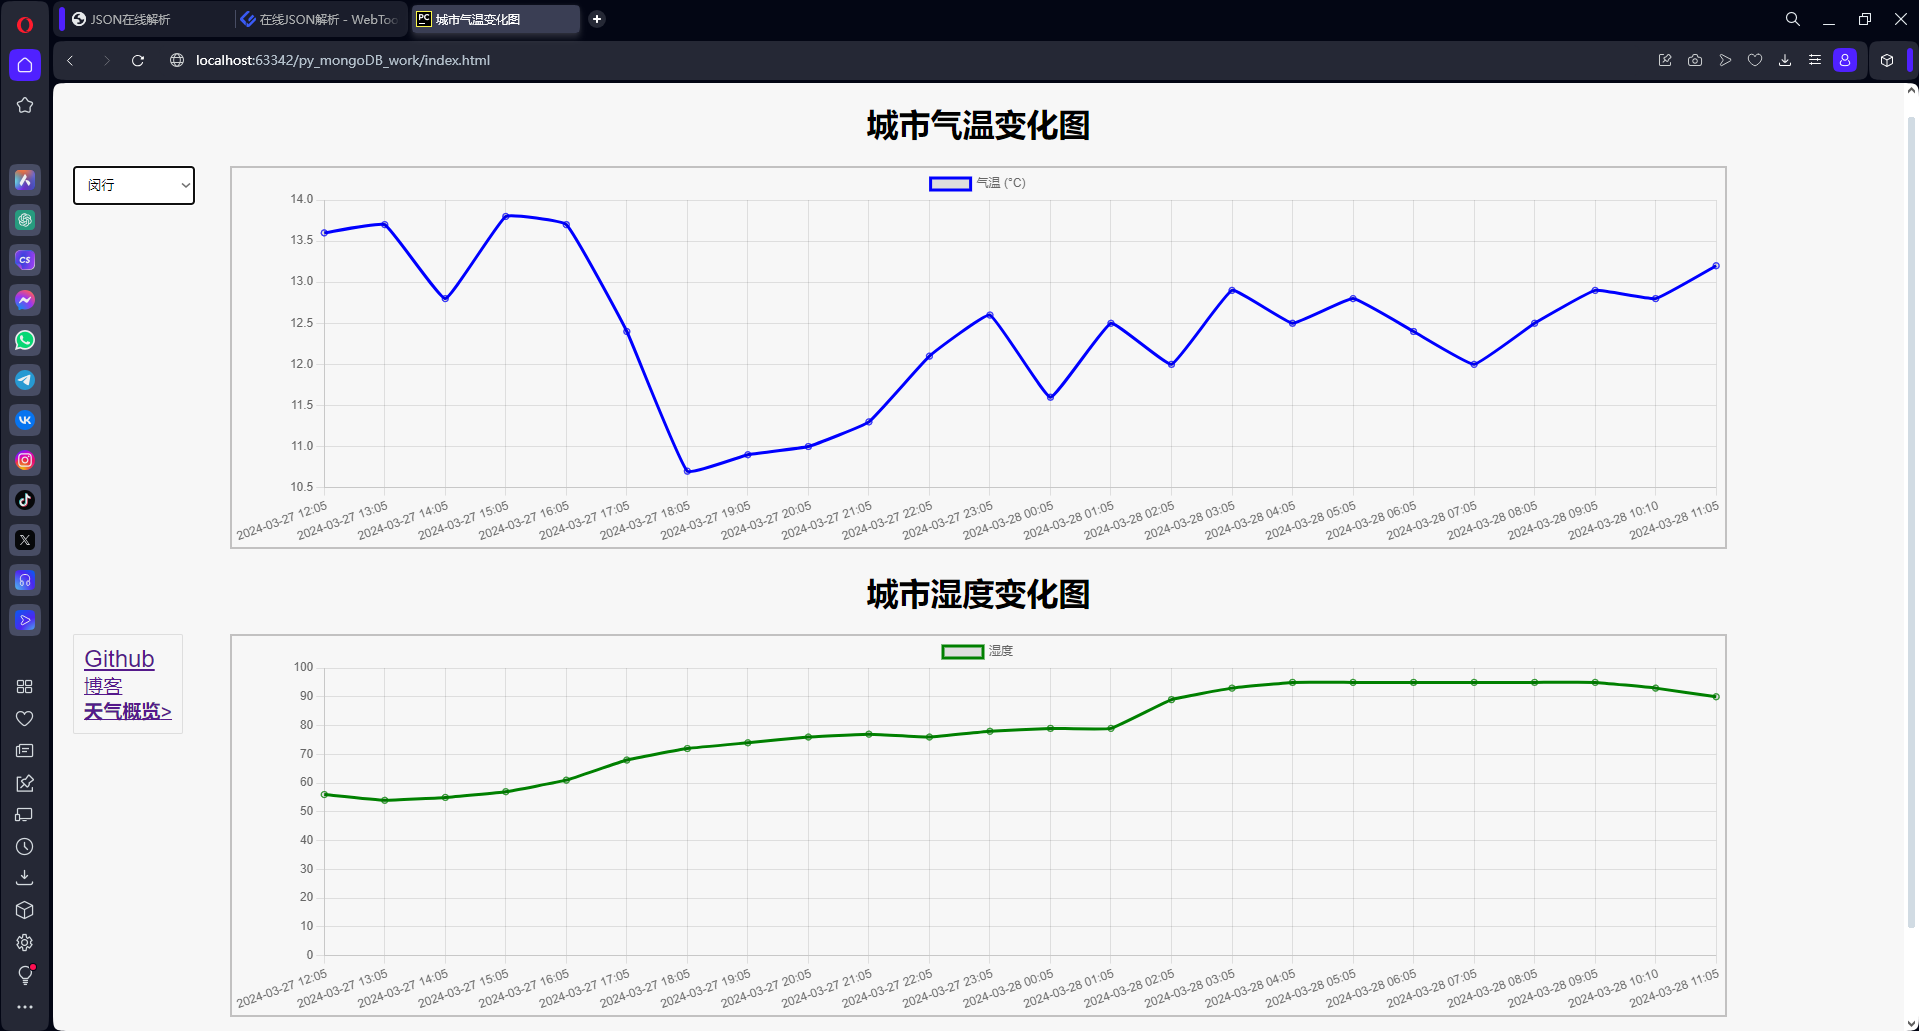
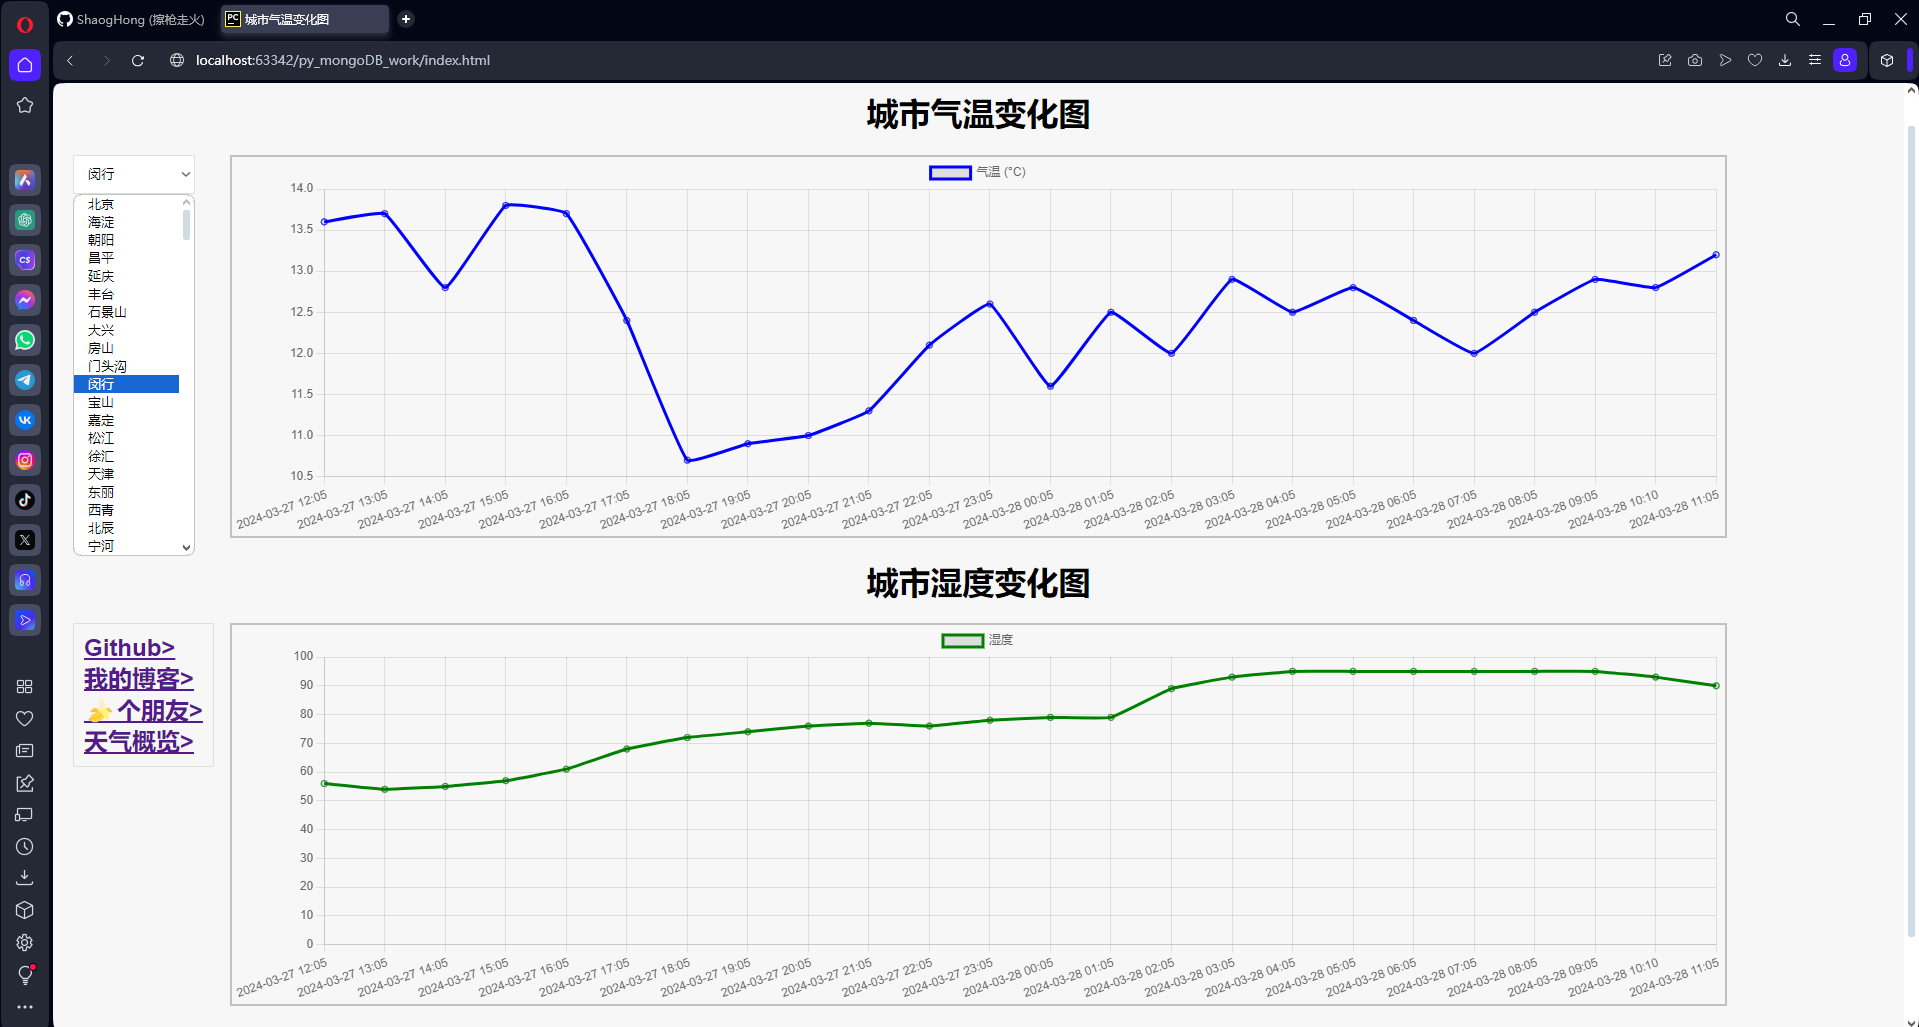
updata

diff --git a/index.html b/index.html
@@ -77,9 +77,10 @@
   <div>
       <!-- 左边的信息栏 -->
     <div id="info">
-      <a style="font-size: 1.5em; margin-bottom: 20px;" href="https://github.com/ShaogHong?tab=overview&from=2024-04-01&to=2024-04-05" target="_blank">Github</a><br>
-      <a style="font-size: 1.2em;" href="https://zzhanzhang.top" target="_blank">博客</a><br>
-        <a style="font-size: 1.2em;" href="http://localhost:63342/py_mongoDB_work/phenomena.html" target="_blank"><b>天气概览</b>></a>
+      <a style="font-size: 1.5em; margin-bottom: 20px;" href="https://github.com/ShaogHong?tab=overview&from=2024-04-01&to=2024-04-05" target="_blank"><b>Github></b></a><br>
+      <a style="font-size: 1.5em;" href="https://zzhanzhang.top" target="_blank"><b>我的博客></b></a><br>
+      <a style="font-size: 1.5em;" href="https://www.douyin.com/user/MS4wLjABAAAAoyJOQEi4CVTrQIbq0nlHLxGAnRtxYXtZ09fByiEC_RA" target="_blank"><b>🍌个朋友></b></a><br>
+        <a style="font-size: 1.5em;" href="http://localhost:63342/py_mongoDB_work/phenomena.html" target="_blank"><b>天气概览></b></a>
     </div>
 
       <!-- 扩展区域 -->

diff --git a/mongo从安装到使用.md b/mongo从安装到使用.md
@@ -1,0 +1,140 @@
+# mongo从安装到使用
+
+## 下载安装
+
+进入官网：网址 选择版本和系统
+
+怕麻烦的话选择安装包下载，
+
+图片
+
+如果不想爆掉C盘就选择压缩包
+
+解压后手动在根目录下创建data和log两个文件夹
+
+配置环境变量，添加mongoDB的bin路径，比如我的就是：D:\mongoDB_Install\mongodb-win32-x86_64-windows-7.0.7\bin
+
+图片
+
+在data目录里创建一个db文件夹
+
+进入bin目录输入cmd
+
+图片
+
+输入命令：mongod --dbpath D:\mongoDB_Install\mongodb-win32-x86_64-windows-7.0.7\data\db
+
+把D:\mongoDB_Install\mongodb-win32-x86_64-windows-7.0.7\data\db换成你的路径；
+
+回车之后就会有很多东西：
+
+图片
+
+之后打开浏览器输入：http://localhost:27017/
+
+就会有这些东西：
+
+图片
+
+这样安装就是成功了
+
+在前面打开的cmd窗口 CTRL+C结束进程；
+
+## 不需要进入bin目录启动mongo的篇日志方法：
+
+在data目录下创建log文件夹；
+
+在安装根目录即bin同级目录下创建文件：[mongo](https://so.csdn.net/so/search?q=mongo&spm=1001.2101.3001.7020).config
+
+随便一个文本编辑器打开并添加内容：
+
+图片：配置文件
+
+其中D:\mongoDB_Install\mongodb-win32-x86_64-windows-7.0.7改为你的安装路径；
+
+以管理员身份运行cmd并进入bin目录；
+图片
+
+输入：mongod -dbpath "D:\mongoDB_Install\mongodb-win32-x86_64-windows-7.0.7\data\db" -logpath "D:\mongoDB_Install\mongodb-win32-x86_64-windows-7.0.7\data\log\mongo.log" -install -serviceName "MongoDB"
+
+其中"D:\mongoDB_Install\mongodb-win32-x86_64-windows-7.0.7\data\db"和
+
+"D:\mongoDB_Install\mongodb-win32-x86_64-windows-7.0.7\data\log\mongo.log"为你的路径
+
+"MongoDB"为服务名;
+
+完了以后启动服务:net start MongoDB
+
+关闭服务:net stop MongoDB
+
+从任务管理器进入服务找到MongoDB(快键m),选择打开服后再次找到MongDB(快键m)或者**win + r** -> 输入 **services.msc**
+
+编辑其属性中的启动类型为手动应用确定;
+
+## **安装MongoDB Compass**
+
+网址:[MongoDB Compass Download (GUI) | MongoDB](https://www.mongodb.com/try/download/atlascli)
+
+选择(stable)稳定版本,系统以及安装方式自选,我选择为windows10 64位(Zip)版解压即用
+
+exe或者msi版本也可以
+
+最后打开连接就可以,我这里换了主题对眼睛好:
+
+图片
+
+## csv数据导入
+
+新建库:use 库名
+
+新建集合:db.createCollection ("集合名")
+
+导入csv数据
+
+图片
+
+
+
+## 创建python项目操作mongoDB查询等
+
+
+
+## 学习并且使用chart.js库进行数据可视化
+
+官方文档:[Chart.js | Open source HTML5 Charts for your website (chartjs.org)](https://www.chartjs.org/)
+
+## 在web页打开实现可视化和查询操作
+
+说起思路，先说我的博客站是用php+mysql构建的，在自定义页面的时候我就发现在html中竟然可以直接写php代码，然后我就在想，我用python写好各个需求的函数在填入html中怎样？结果一了解还真有这个库PyScrip
+
+使用css美化web,怎么绘制有咩的css?
+
+
+
+问题处理：
+
+图片：
+
+![](G:\my_file\王老师作业_mongoDB应用\城市名的api查询错误排除.png)
+
+```python
+# 成功解决问题的关键!!!
+response = jsonify(data)
+response.headers.add('Access-Control-Allow-Origin', '*')  # 添加允许所有域名的头信息
+```
+
+
+
+第二api访问错误的问题：
+
+图片
+
+解决办法
+
+```python
+from flask_cors import CORS
+app = Flask(__name__)
+CORS(app)
+```
+
+一些错误处理：挖坑踩坑埋坑

diff --git a/README.md b/README.md
@@ -1,7 +1,16 @@
 # 炒点python不加SQL
-王老师的数据采集和可视化作业:Python+MongoDb+chart.js实现各个城市天气情况的可视化并使用html+css在web中展示
+## 王老师的数据采集和可视化作业:Python+MongoDb+chart.js实现各个城市天气情况的可视化并使用html+css在web中展示
+**[最终效果图](\all_img\dome—OK.png)✨**
 ![](\all_img\dome—OK.png)
+## [绿色安装MongoDB看这篇文章🧐](/mongo从安装到使用.md)
+自己写的,一步步来一次装好
 
+## 源数据的导入🛠
+给了一个[csv的源数据](\csv源数据\all_cities_weather_data.csv)，需要先将它倒入到mongoDB中去；
+```ssh
+新建库:use 库名
+新建集合:db.createCollection ("集合名")
+```
 
 
 
